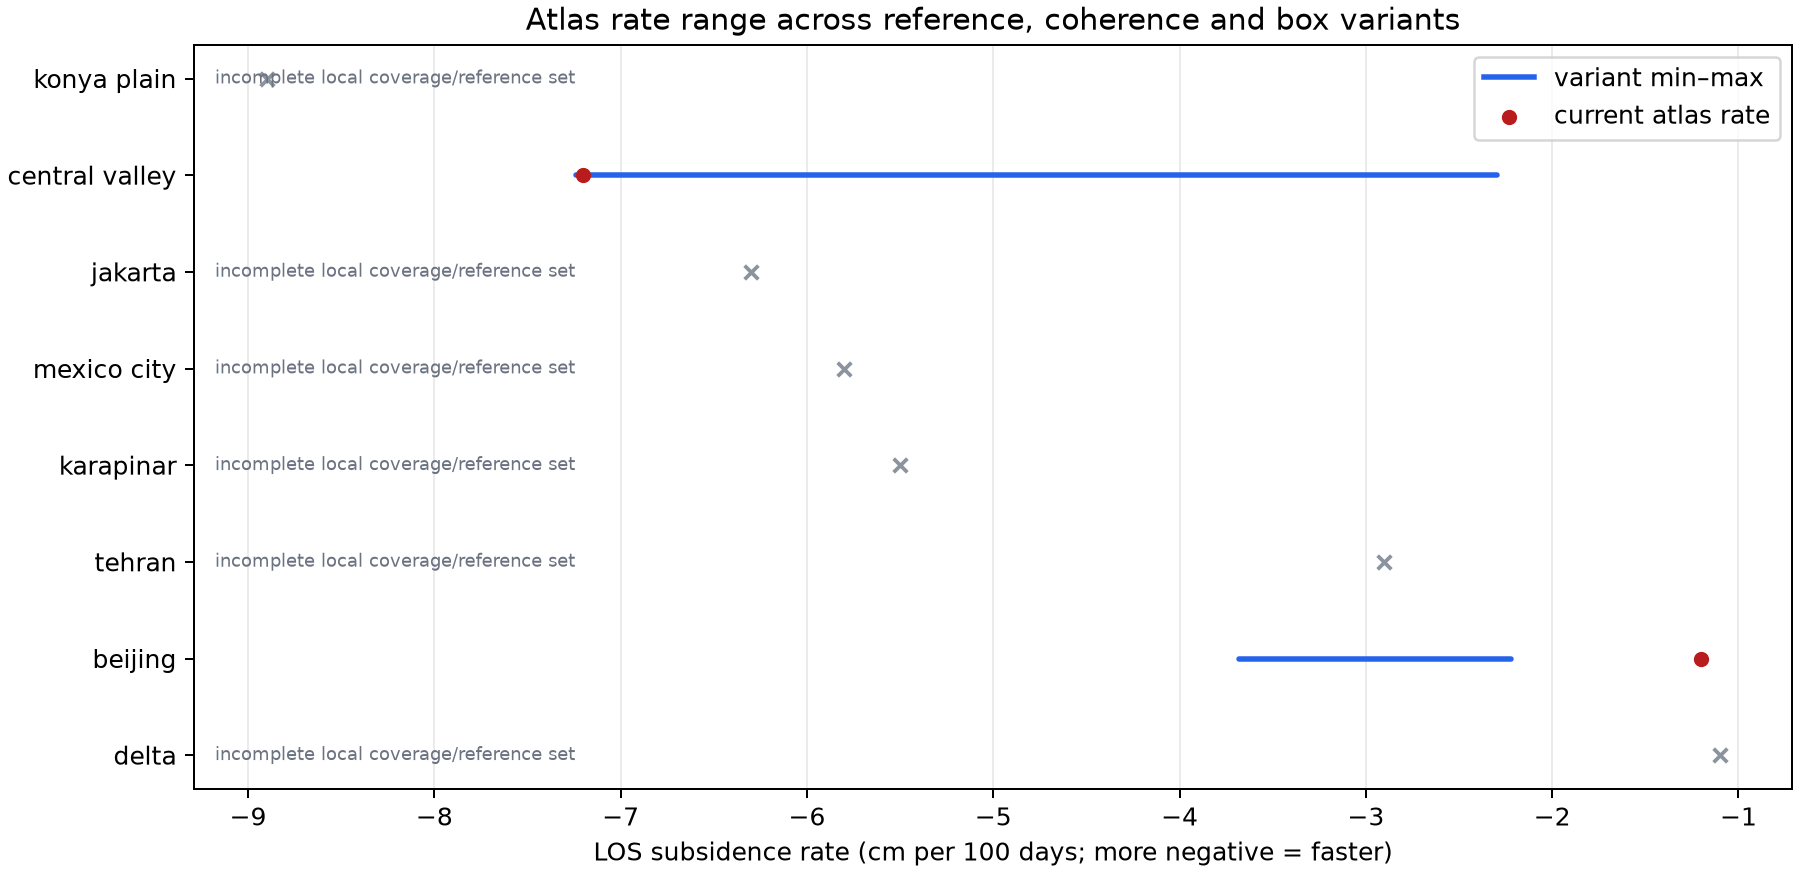
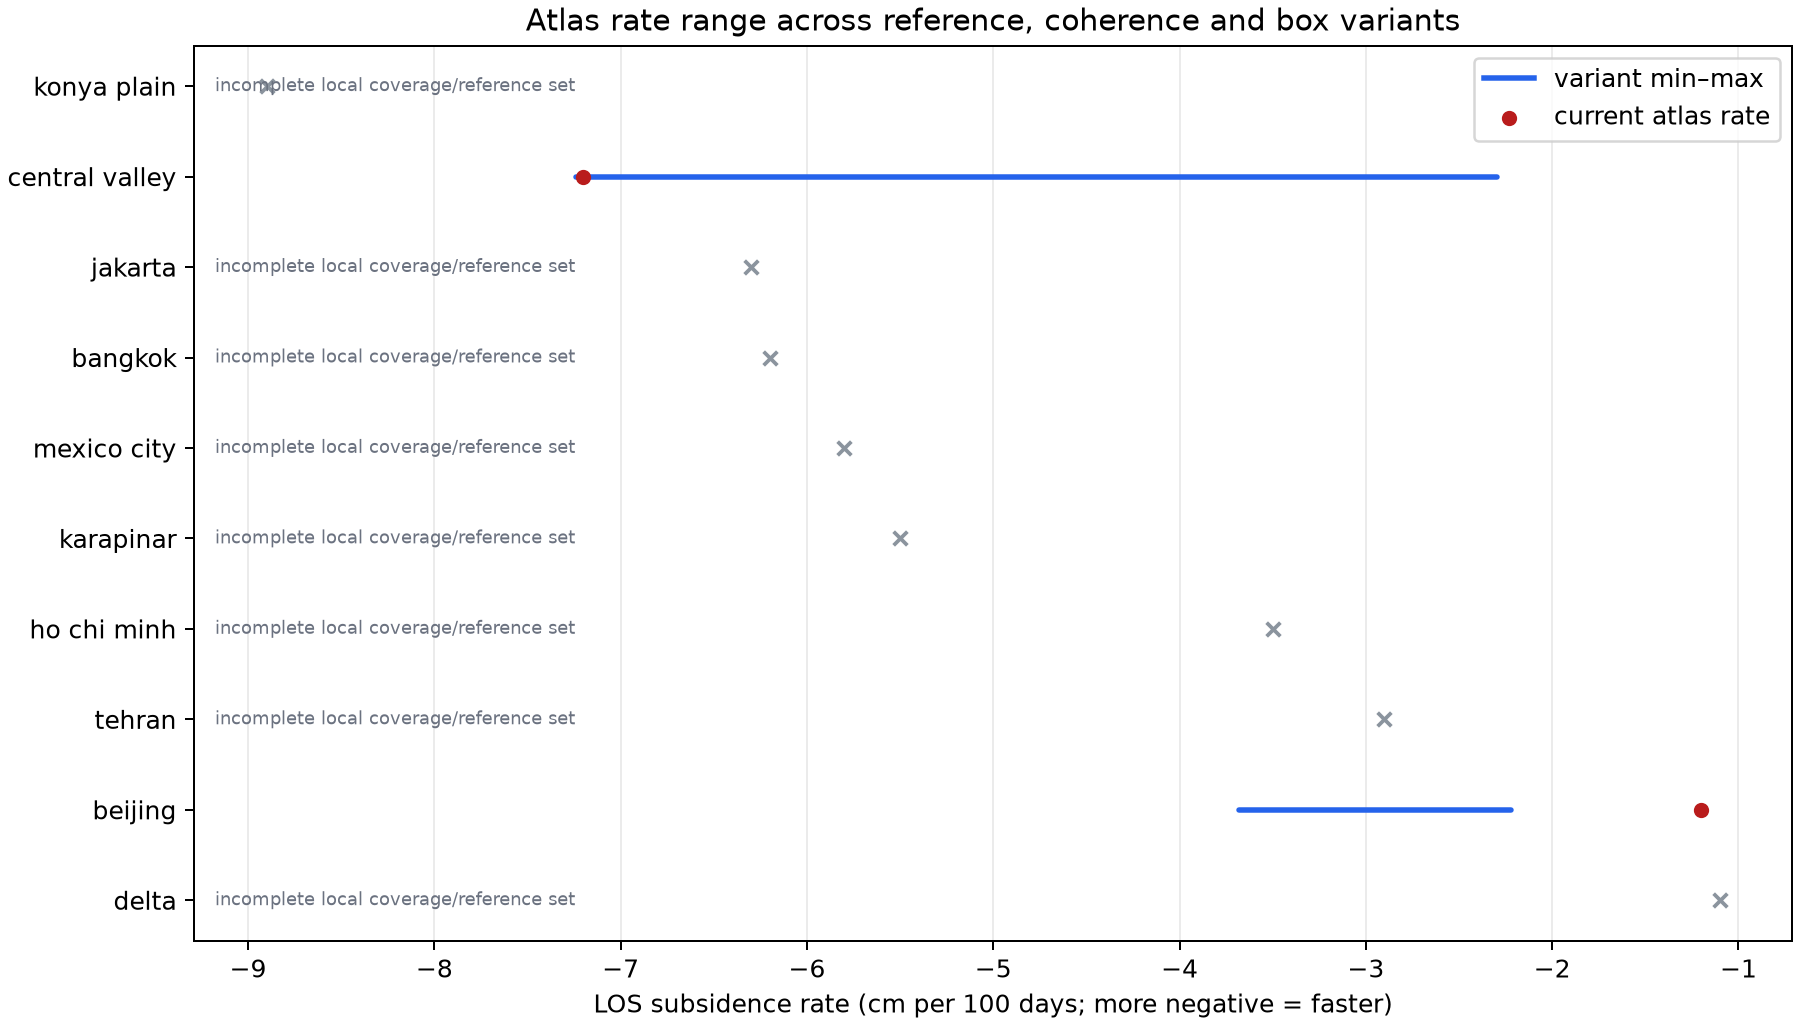
[PC7] refresh atlas robustness and QA status

diff --git a/docs/qa/PC7.md b/docs/qa/PC7.md
@@ -456,3 +456,11 @@ Bu sonuçlar yalnızca ASF/CMR kapsamasını ve tarih zincirini doğrular; anali
 ## 19. Xi'an üretim hattı hazırlığı
 
 `pipeline/pc7/run_atlas_city.py` eklendi ve Python 3.12 ile derleme + bbox/ref koordinat yardımcıları için smoke check geçti. Hat, ASF aramasını hedef ±0.25° kutuda yapar; ham GUNW'yi tek tek indirip genişletilmiş kesit alır, her ham dosyayı kesitten sonra siler ve cumulative motorunu geçici dizinde çalıştırır (PC3 `analysis/out/` dosyalarına yazmaz). Referans koordinatı, kaynakta adı geçen sabit Xingping bölgesindeki yerleşim merkezi yakınıdır: ([Xi'an referans çalışması](https://www.tandfonline.com/doi/full/10.1080/19475705.2018.1542350), [UNGEGN şehir koordinatı](https://ungegn.un.org/dashboard/cities/details?id=2459)). Gerçek 7×7 referans piksel penceresi NISAR gridinden seçilip koordinatı çıktıya yazılır. Üretim analizi henüz başlatılmadı; dosyalar ve indirme logu olmadan `hazır` denmeyecek.
+
+## 20. Atlas kalite bekçisi — Xi'an indirmesi öncesi taban çizgisi
+
+`python tools/validate_atlas.py` salt-okunur çalıştırmasında **11 atlas kaydı, 12 şehir klasörü, 157 bulgu (145 hata, 12 uyarı)** bulundu. Bulguların çoğu eski kayıtların bbox ±0.25° olmaması, summary/atlas metrik eksikleri, boş note/country değerleri ve referans kanıtı eksikleridir. Bu turda atlas veya başka PC'lerin şehir verileri değiştirilmedi; Tahran, Pekin ve Cakarta'ya dokunulmadı. Yeni Xi'an çıktısı tamamlandığında denetim tekrar çalıştırılıp fark raporlanacak.
+
+Robustness çıktısı güncellendi ve ağsız regresyonu `python -m pytest -q pipeline/pc7/tests/test_atlas_robustness.py` ile **4/4 PASS** oldu. Şu anki girişlerde 10 şehirden sadece Central Valley 27/27 varyant üretiyor; diğer şehirler 27 varyantın tamamını sağlayamadığı için ilk üç sıra kararı **sonuçlandırılamadı** (`n_variant_rankings=0`). `data/global/robustness.json` ve `docs/story/media/pc7_atlas_robustness.png` yenilendi; atlas.json'a dokunulmadı.
+
+Xi'an üretim denemesinde `pipeline/subset/global_xian/` altında bir kesit oluştu ancak arka plan süreci artık çalışmıyor ve tamamlanma özeti yok; dolayısıyla şehir hazır değil. Kesiti koruyup `--resume` ile kalan çiftleri tamamlayacağım. `tools/validate_atlas.py` tekrar çalıştı: hâlâ **157 bulgu (145 hata, 12 uyarı)**; şehir özeti oluşmadığından taban çizgisi değişmedi.

diff --git a/status/PC7.md b/status/PC7.md
@@ -1,7 +1,7 @@
 # PC7 durum
 
 - Görev: Fens GCOV ritmi, polarizasyon karşılaştırması, çevrimdışı site QA ve Node oyun testi
-- Durum: O2 tamamlandı; atlas doğrulayıcısı güncel Isfahan verisiyle yeniden çalıştırıldı, kalite standardı açıkları raporlandı
+- Durum: FAZ 1 Xi'an üretimi sürüyor; robustness yenilendi (4/4 ağsız test PASS); atlas doğrulayıcısı 157 bulgu verdi
 - ASF araması: platform=NISAR, processingLevel=GCOV, bbox [-0.3, 52.4, 0.4, 52.9], başlangıç 2026-06-17; 49 P05023 GCOV ürünü HH/HV ile eşleşti.
 - Tekrarlı seri: path 52, frame 61, 10 benzersiz tarih: 2026-06-17–2026-10-15. Granül listesi `pipeline/pc7/fens_gcov_catalog.json` içinde.
 - Doğrulama: `pipeline/pc7/search_fens_gcov.py` çalıştırıldı; katalog JSON olarak tekrar açılıp parse edildi.
@@ -30,5 +30,6 @@
 - Uzun plan FAZ 1 kapsamı: Python 3.12.10 NISAR Pulse dry-run ile Xi'an, Taiyuan, Querétaro, Aguascalientes, Kashmar'ın her birinde 9 ardışık provisional çift ve sıfır boşluk doğrulandı. Ham veri indirmedim; ayrıntılar `docs/qa/PC7.md` §18.
 - `pipeline/pc7/run_atlas_city.py` eklendi; py_compile ve bbox/reference yardımcıları smoke check geçti. Ham veri henüz indirilmedi, yeni şehir `ready` değil. Ayrıntı `docs/qa/PC7.md` §19.
 - Devam: Xi'an için NISAR Pulse arama/kesme ve kaynaklı Xingping referans yerleşimi yakınında ortak-geçerli 7×7 yüksek koherens penceresi seçimi.
+- Xi'an: bir provisional kesit mevcut; arka plan denemesi sonlandı, kalan çiftler `--resume` ile sürdürülüyor; şehir henüz hazır değil.
 - AI: Codex → CMR dry-run, kaynak incelemesi ve PC7 QA kaydı.
 - BLOCKED: yok
